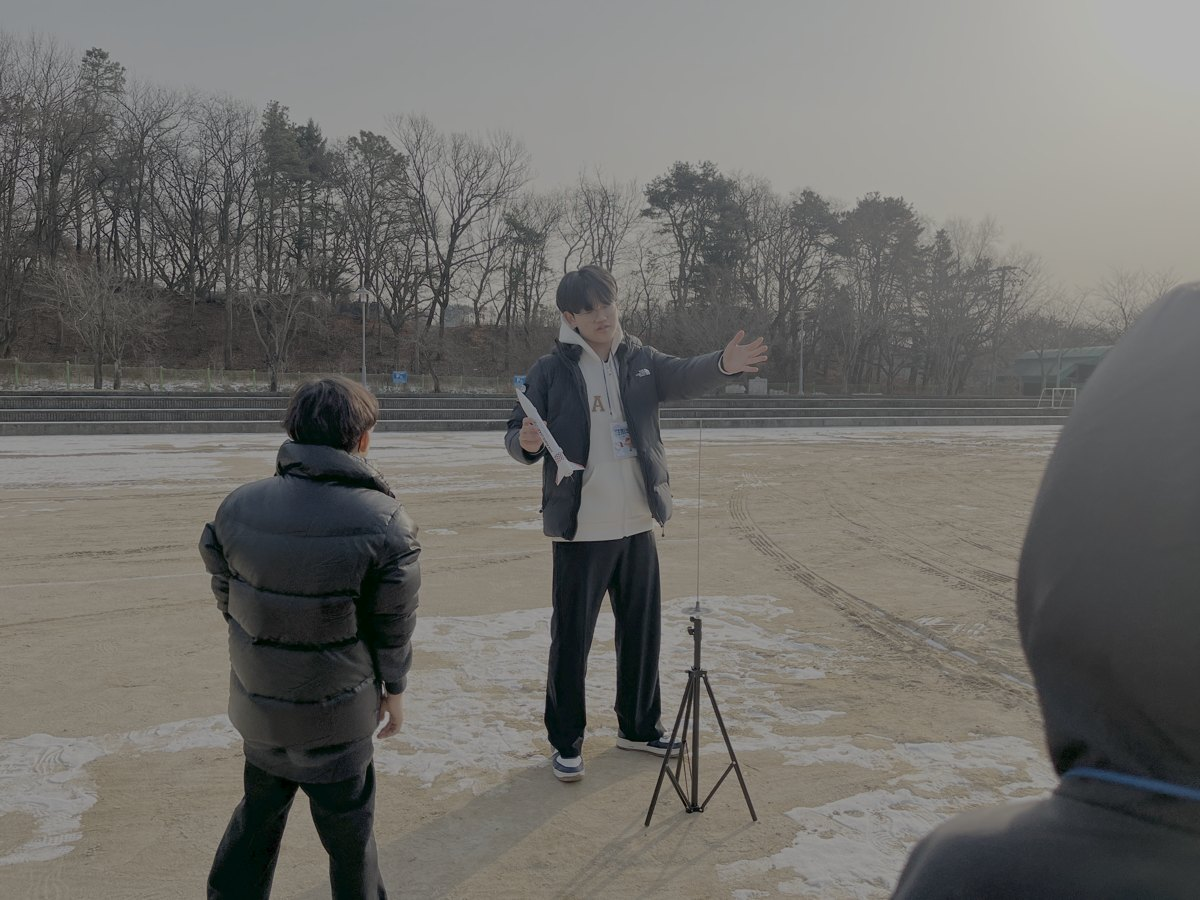
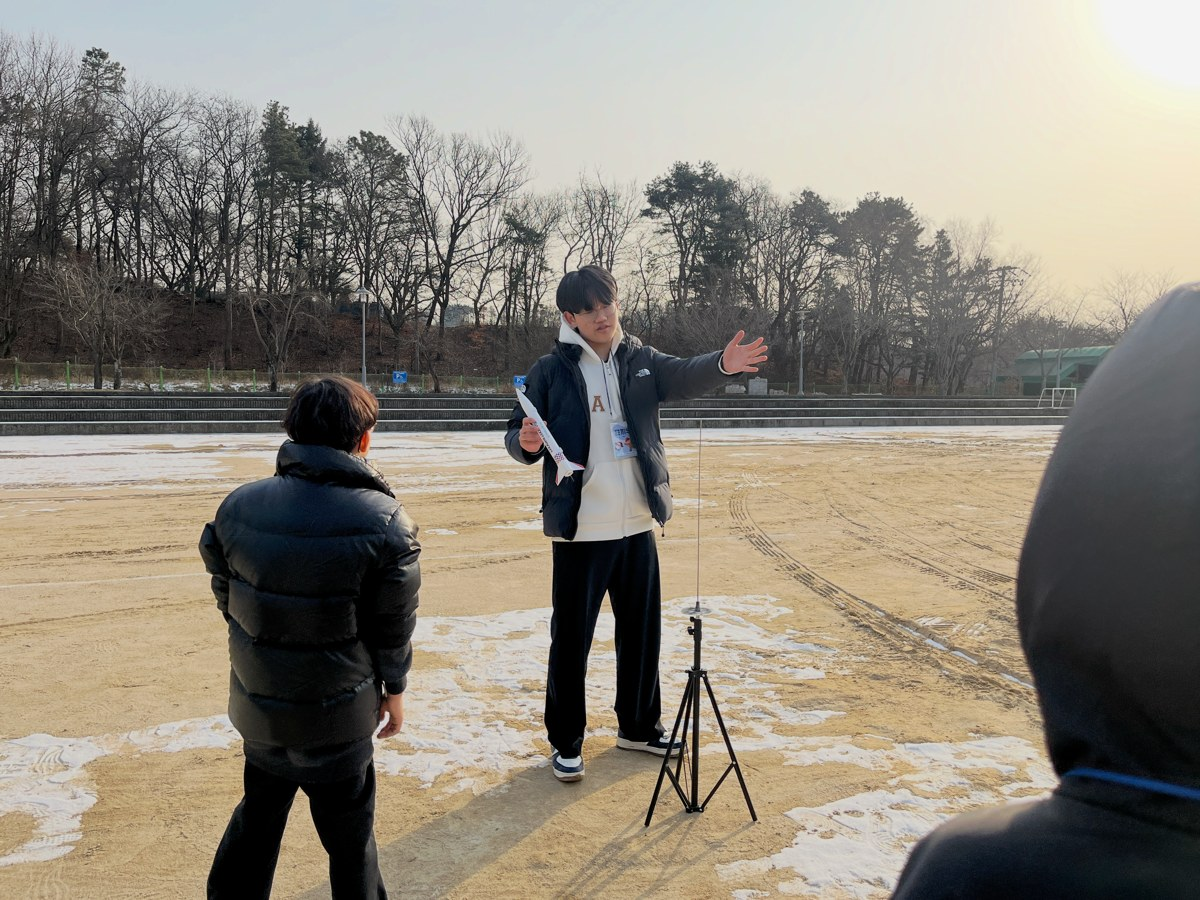
Volunteer: fix SR camp photo color (HDR profile to sRGB)
Claude-Session: https://claude.ai/code/session_01EC6W7bykrVLLfaoLwWnk3p

diff --git a/volunteer.html b/volunteer.html
@@ -42,7 +42,7 @@
 
 <main class="projectList">
   <article class="project">
-    <div class="projectMedia"><img src="assets/projects/sr-camp.jpg" alt="Teaching a model rocket launch class at the SR camp" loading="lazy"></div>
+    <div class="projectMedia"><img src="assets/projects/sr-camp.jpg?v=2" alt="Teaching a model rocket launch class at the SR camp" loading="lazy"></div>
     <div>
       <p class="projectMeta">Mentor, instructor</p>
       <h2>SR (Social Responsibility) Camp</h2>
